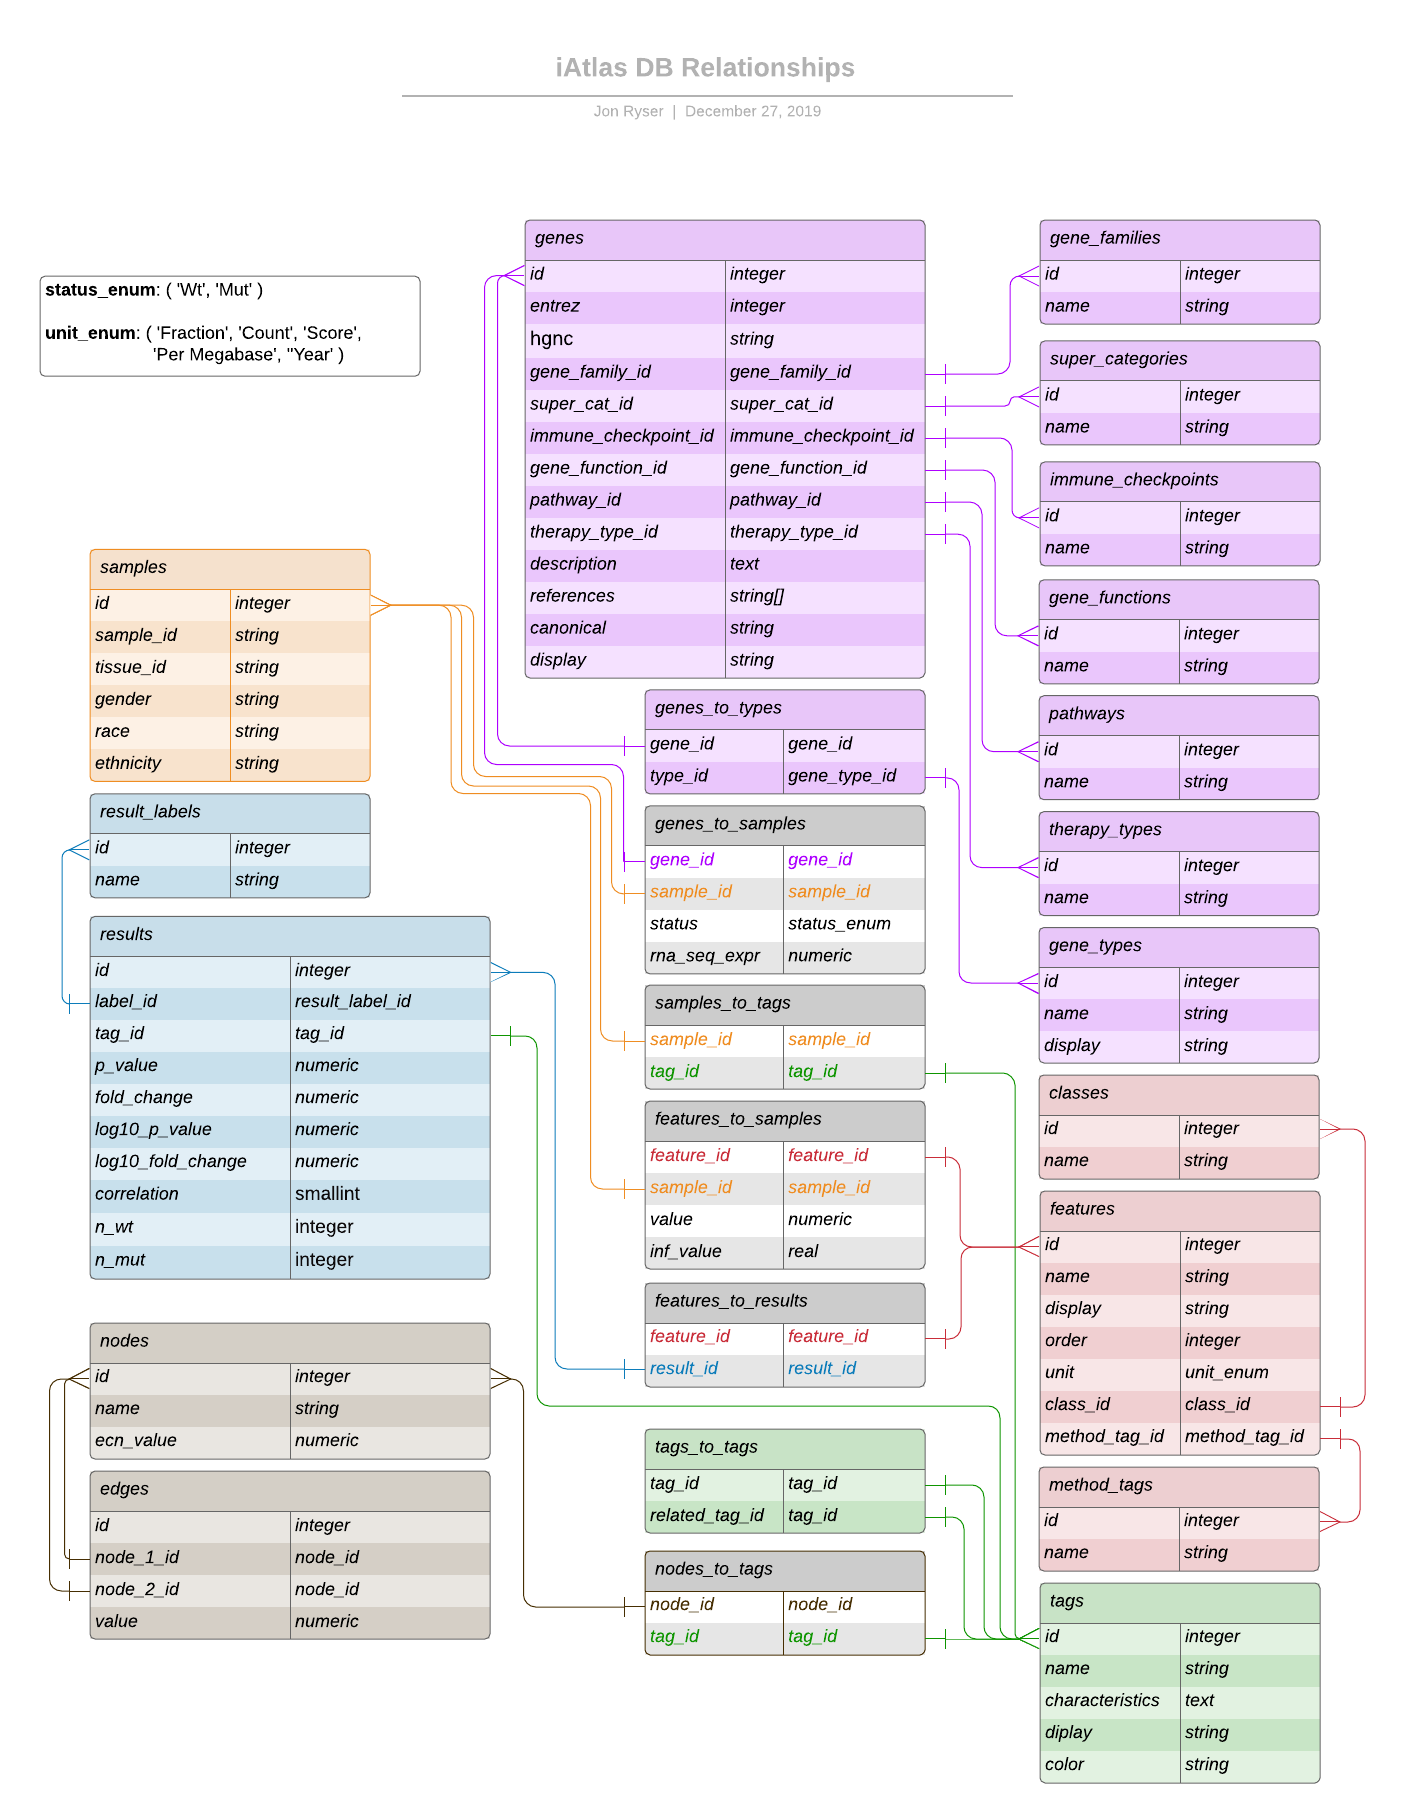
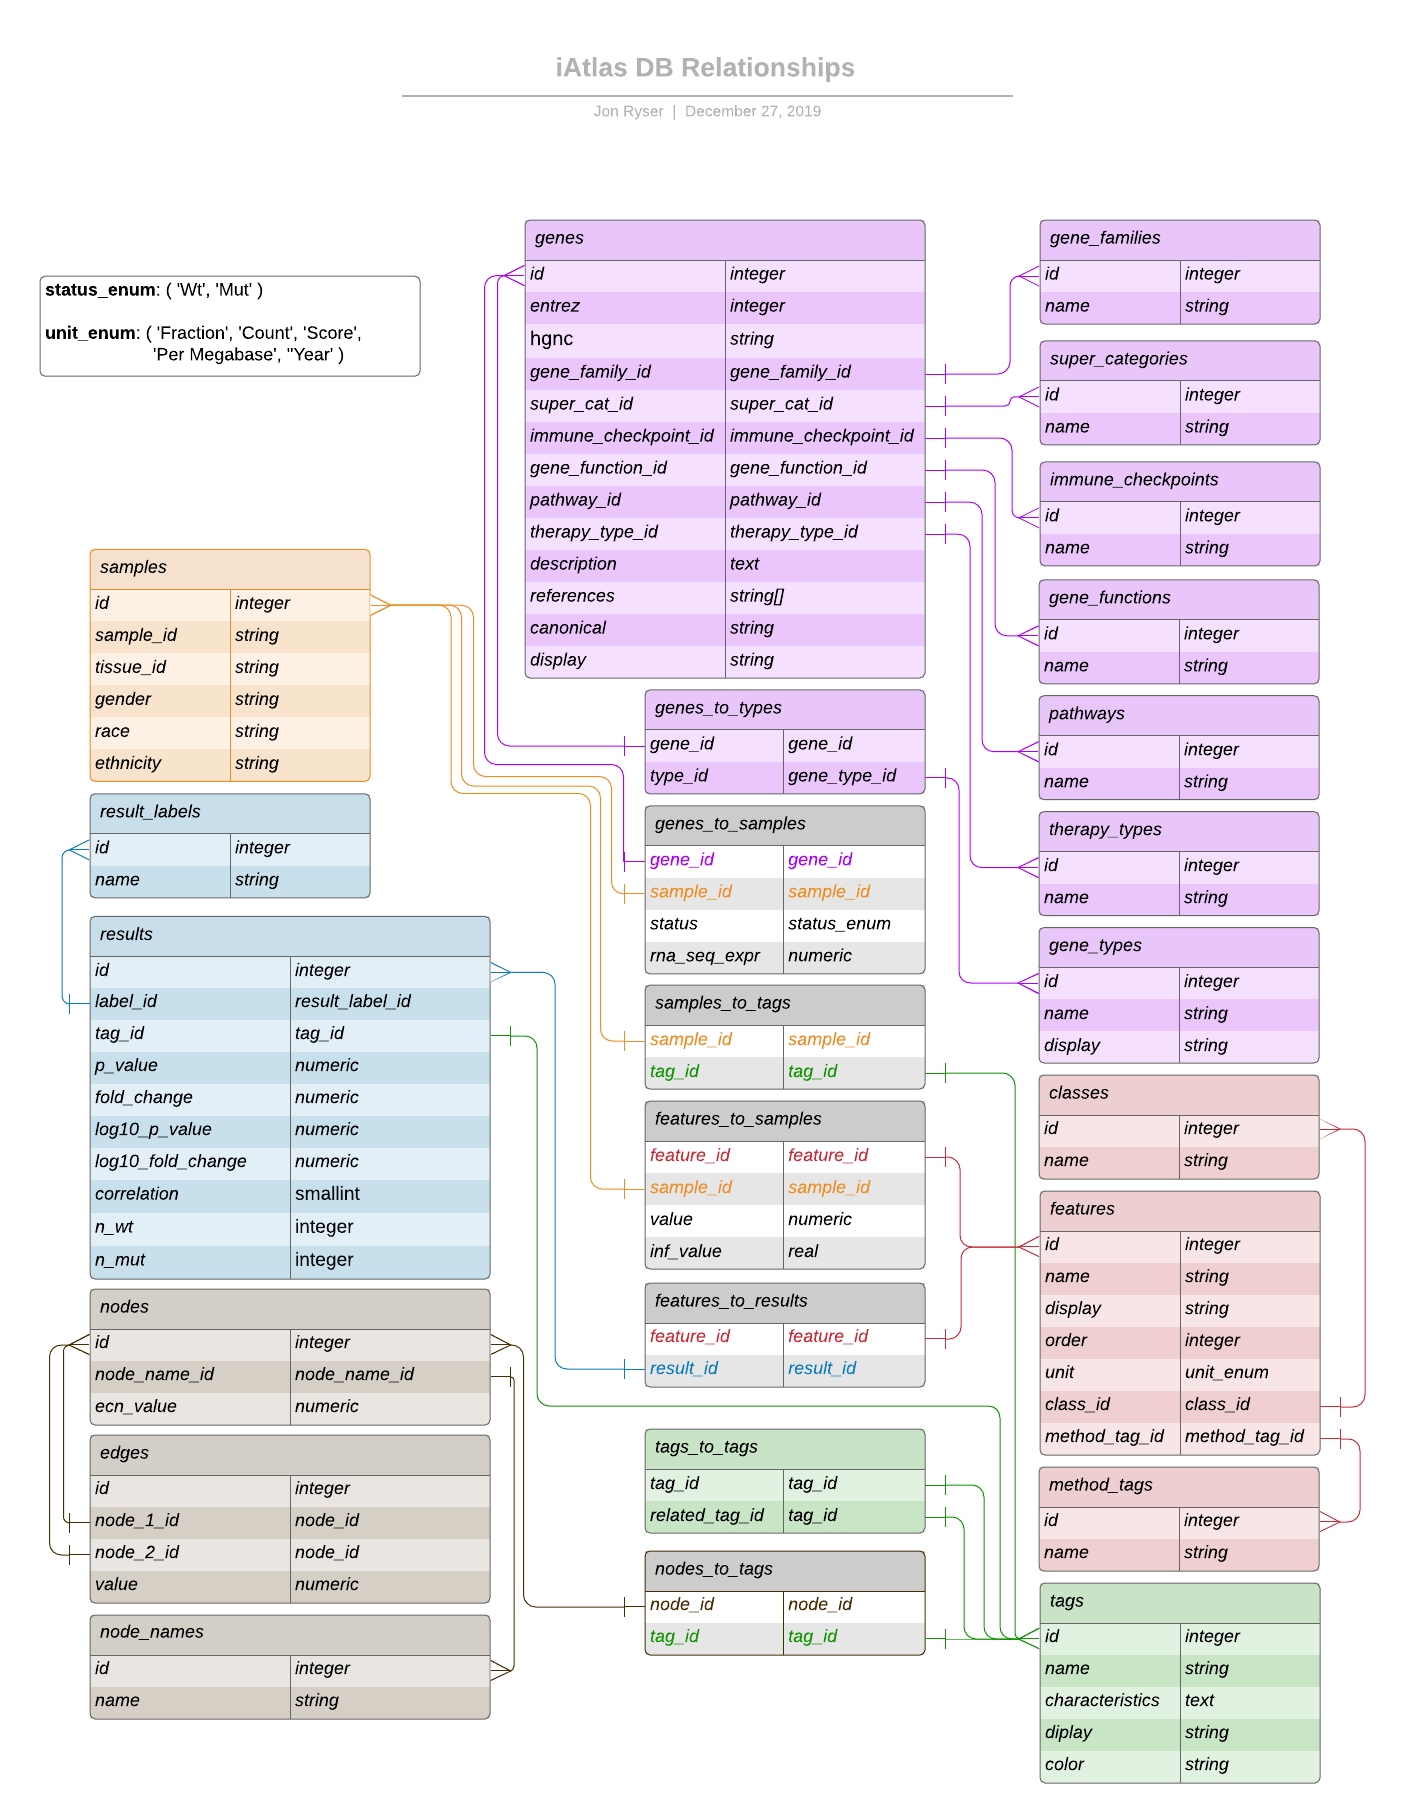
Updates to the nodes data model.

Changed region(s): [[0.0306, 0.7077, 0.3673, 0.9538]]

diff --git a/data_model/DATA_MODEL.md b/data_model/DATA_MODEL.md
@@ -112,6 +112,12 @@ The sub tables are:
 
     Each row describes an individual result label.
 
+- ### [Nodes](#nodes) Sub Tables
+
+  - #### node_names
+
+    Each row describes an individual node name.
+
 ## Relational (Join) Tables
 
 Much of the data has a one to many or many to many relationship. Rather than have that data expressed in the main tables or sub tables as array structures or similar which would be challenging (and slow) to access, these relationships are kept in join tables that simply hold the ids of the related data. This also makes it indexable as fast integers.
@@ -363,7 +369,7 @@ The following are descriptions of each field in each table. This should be exhau
 
   - `id` - A unique database identifier for the specific node. This is an integer that is generated by the database. (an integer)
 
-  - `name` - The unique name for the specific node. (a string)
+  - `node_name_id` - The database identifier of a specific node name. Relates to the `id` field in a row in the [node_names](#node_names) sub table. (an integer)
 
   - `ecn_value` - The extra cellular network value of the specific node. (an integer)
 
